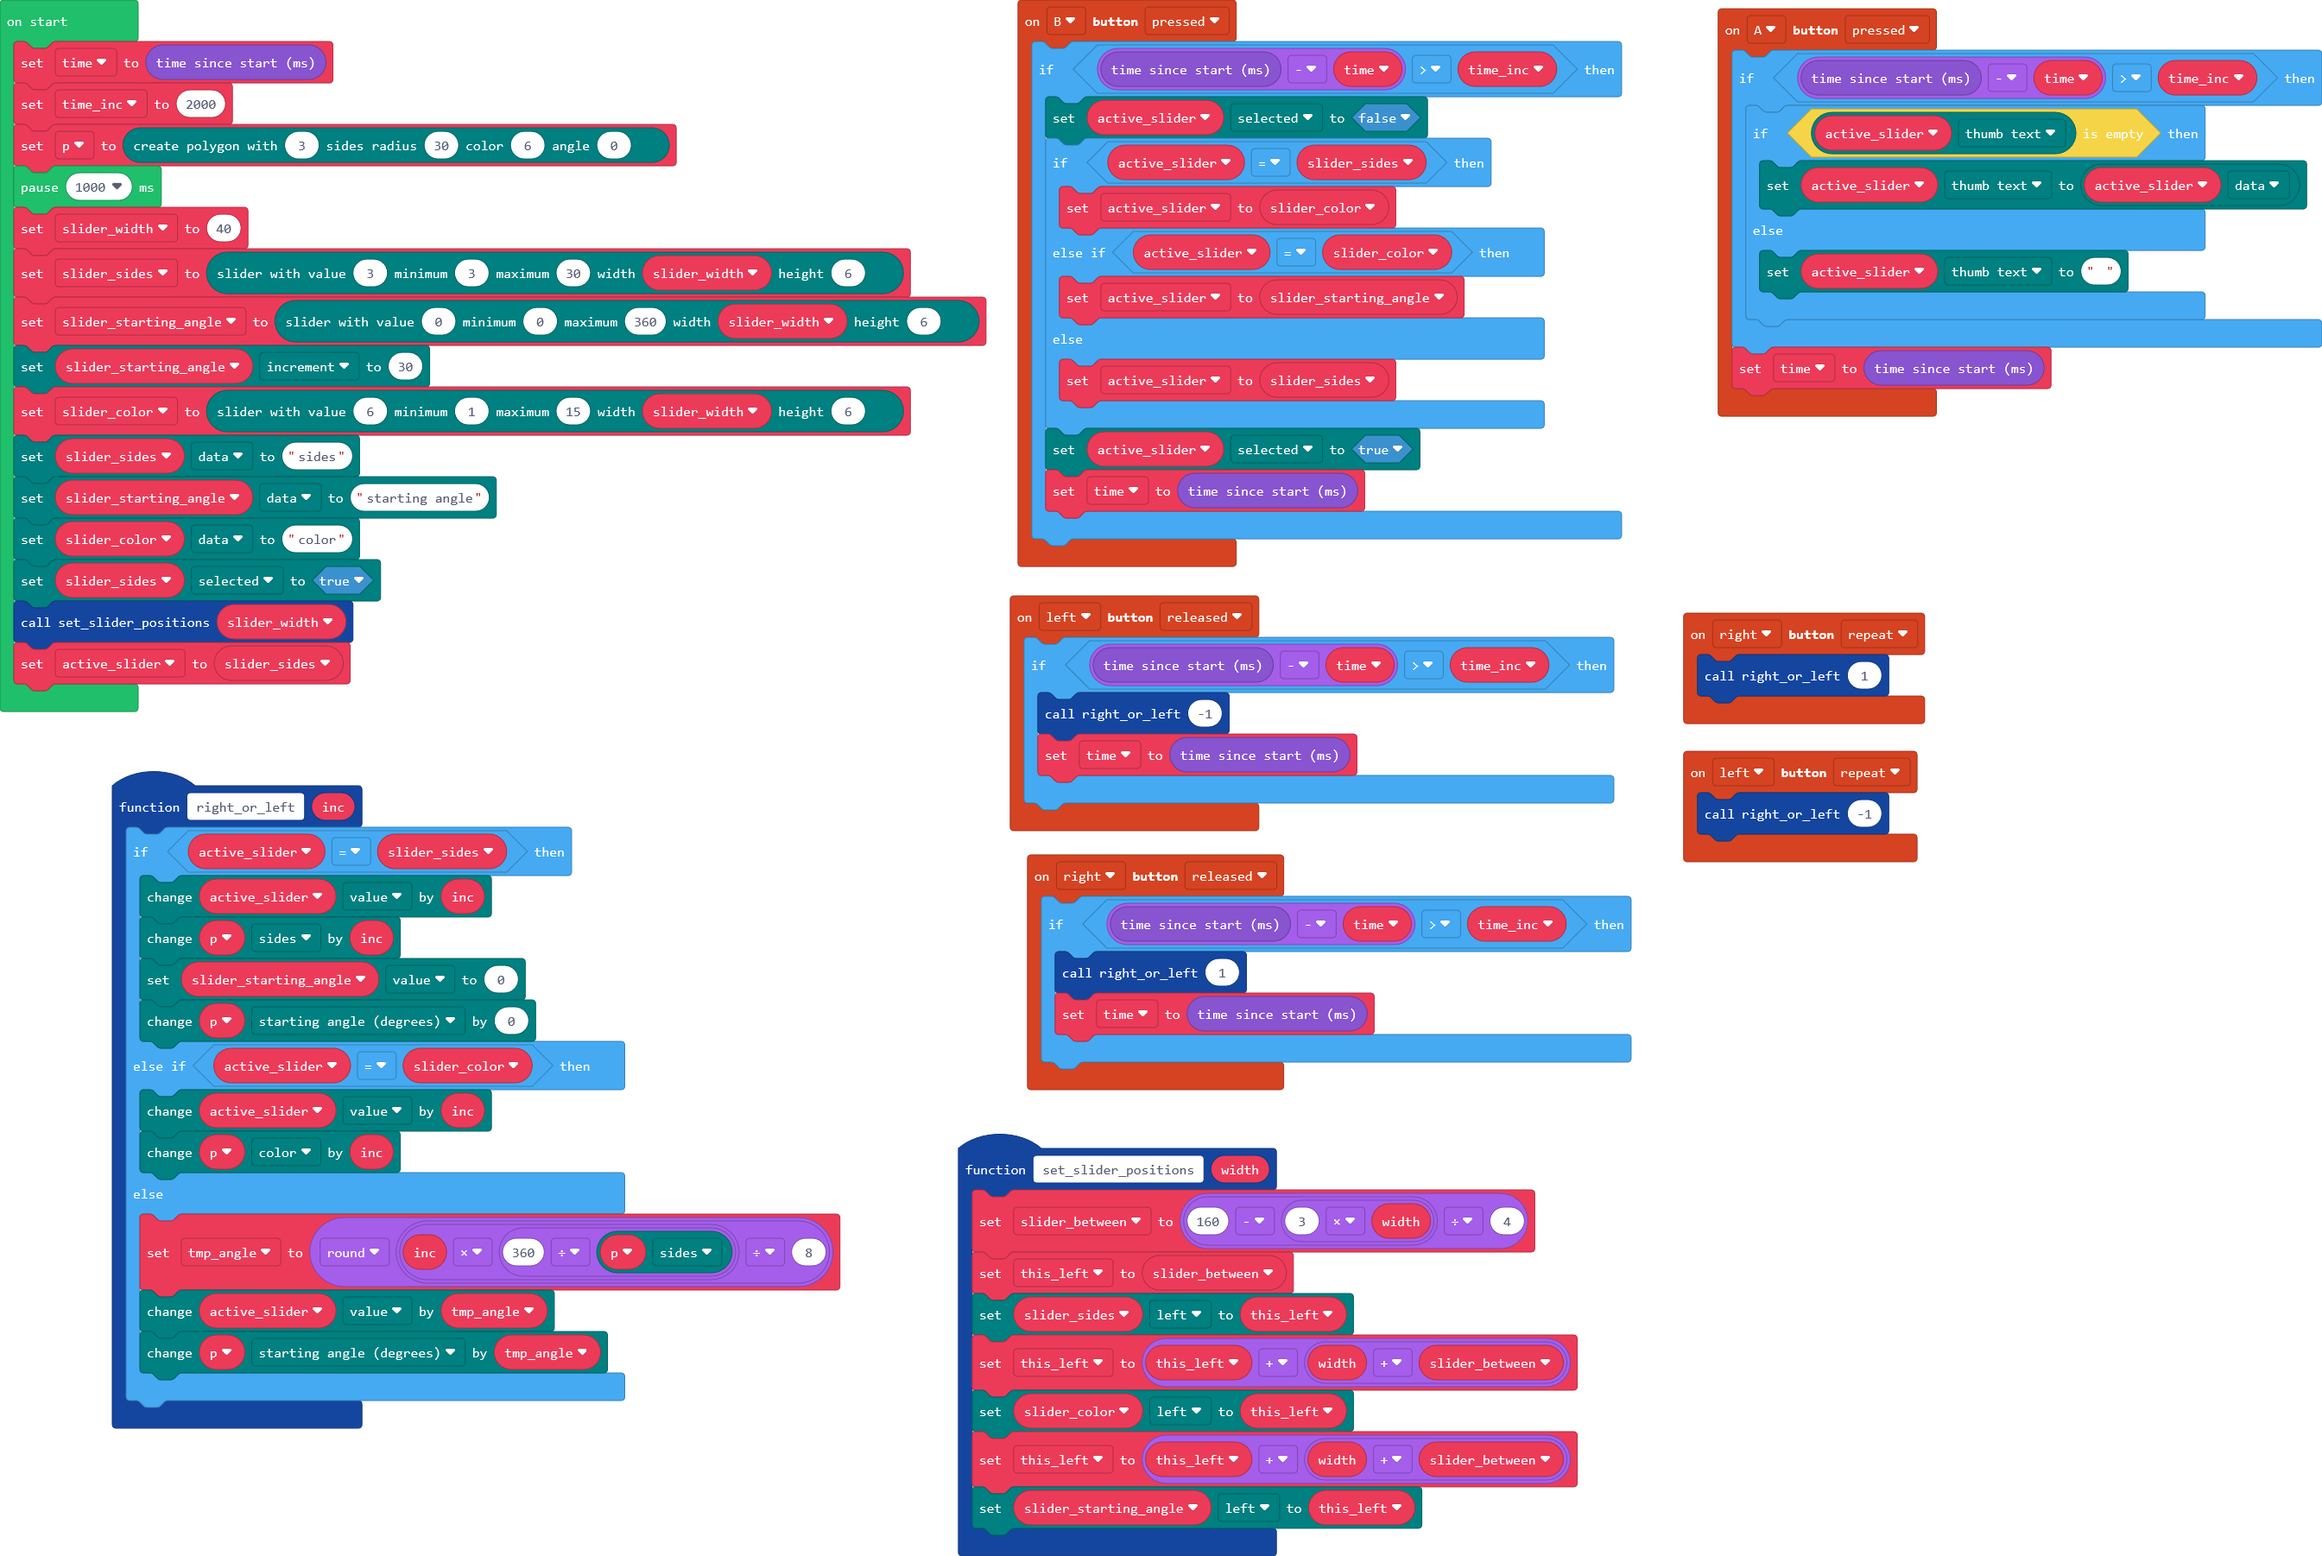
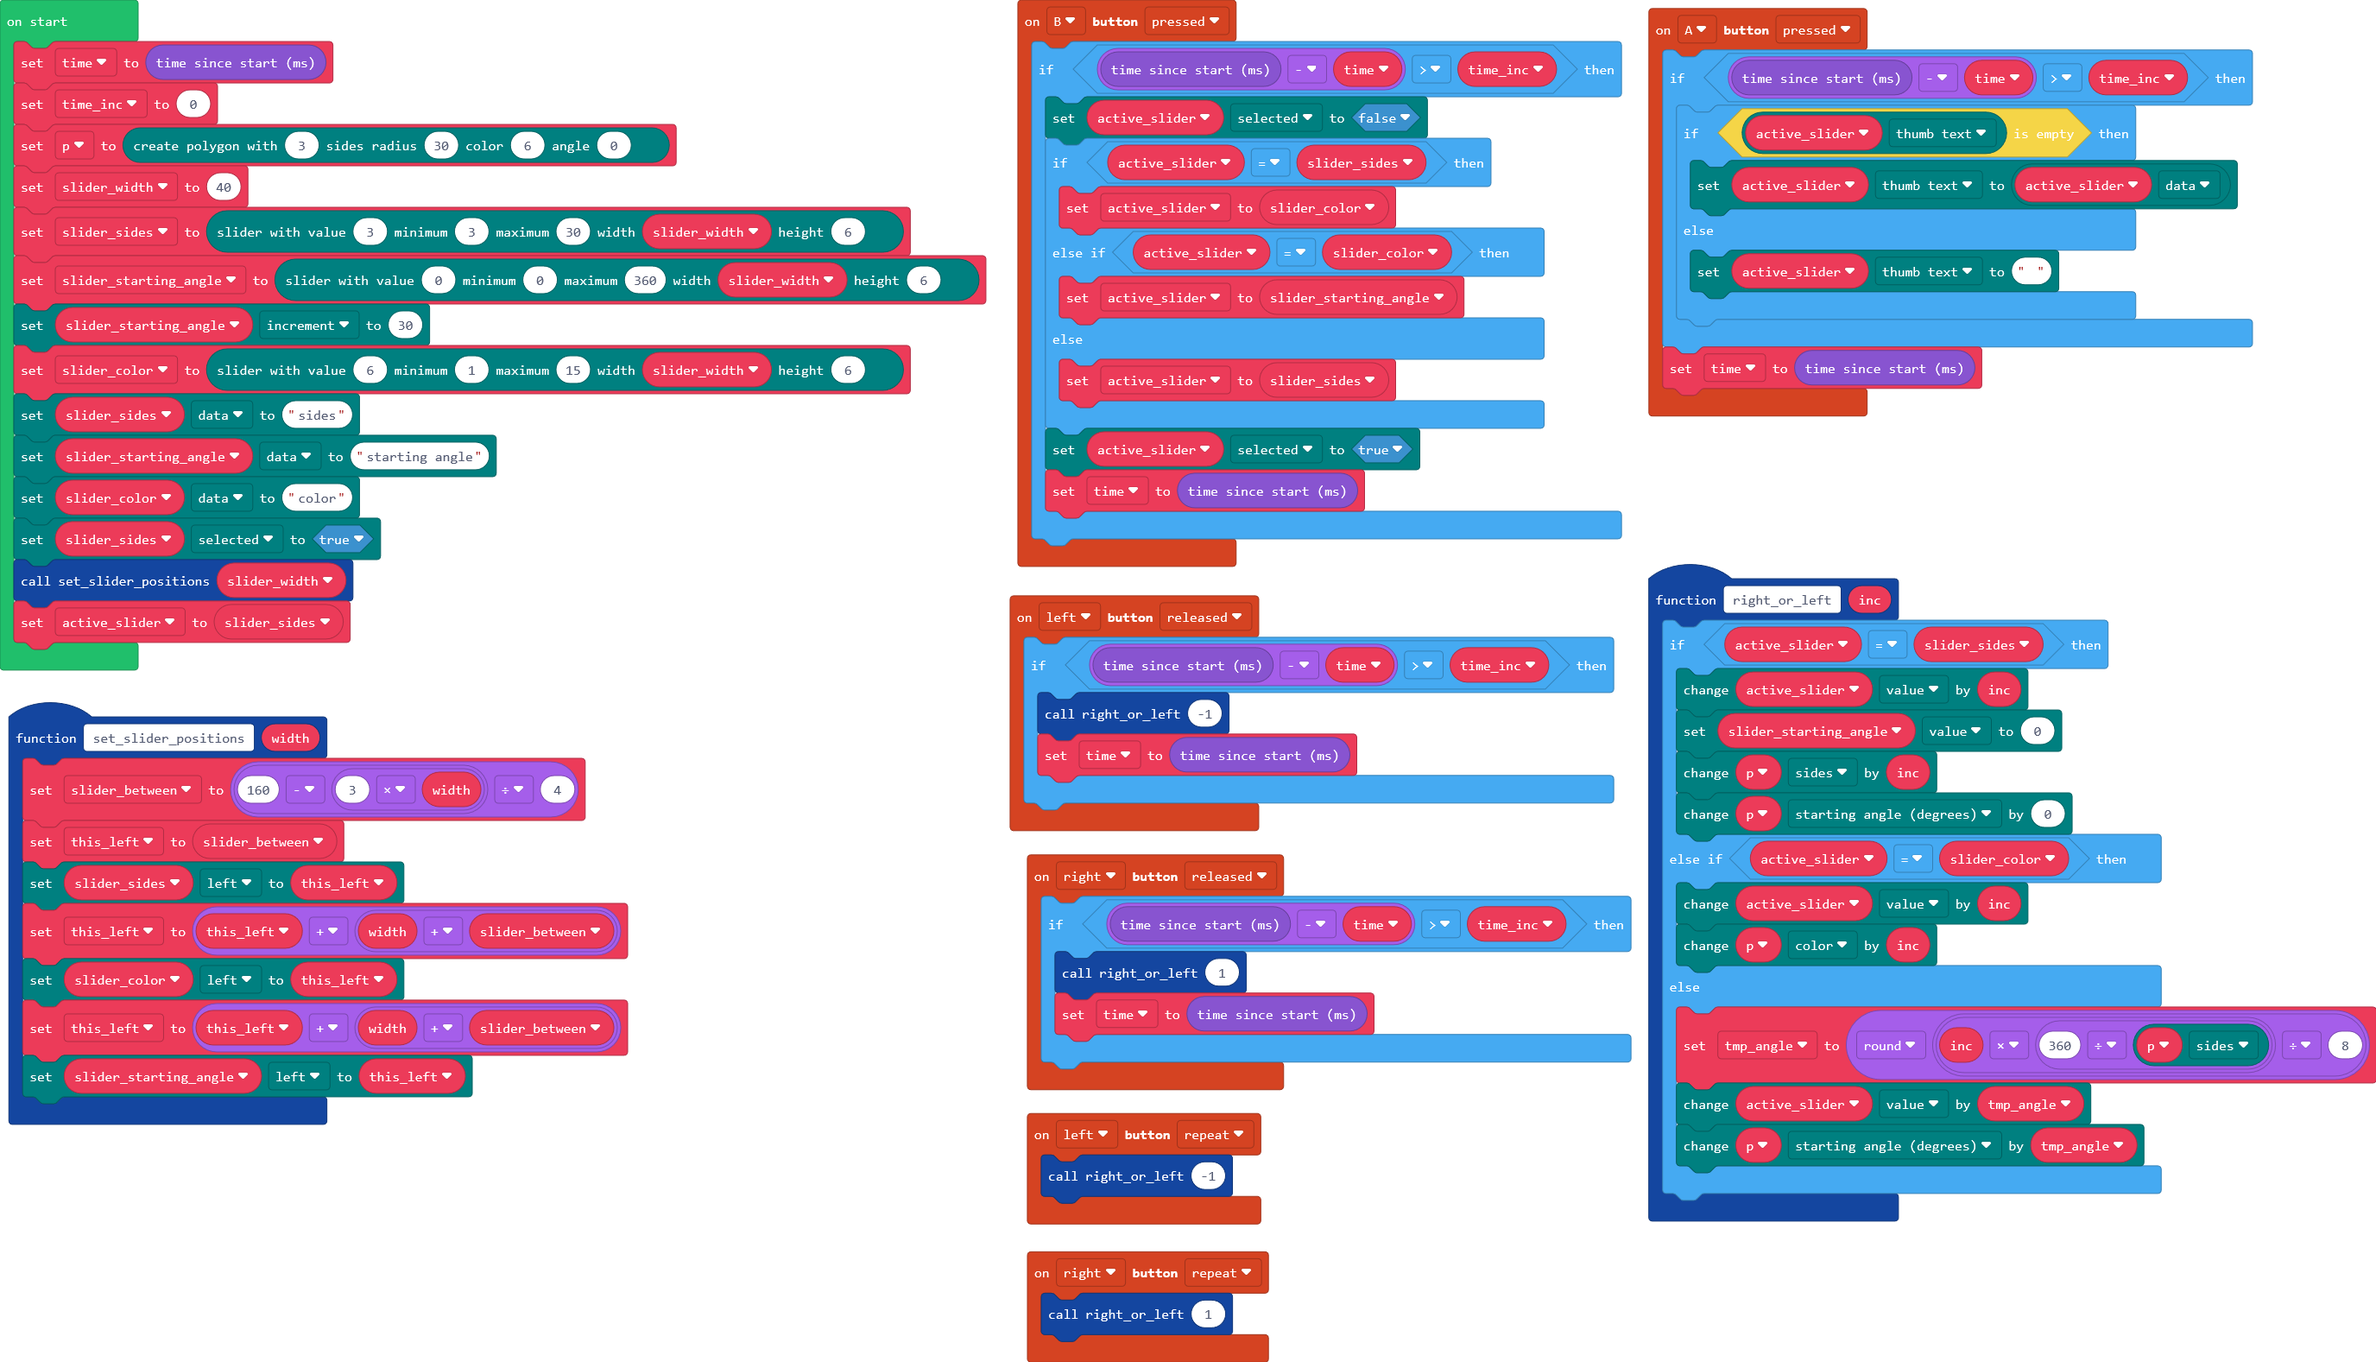
Update main.blocks, main.ts

diff --git a/main.ts b/main.ts
@@ -43,8 +43,8 @@ controller.A.onEvent(ControllerButtonEvent.Pressed, function () {
 function right_or_left (inc: number) {
     if (active_slider == slider_sides) {
         active_slider.value += inc
-        p.sides += inc
         slider_starting_angle.value = 0
+        p.sides += inc
         p.angle += 0
     } else if (active_slider == slider_color) {
         active_slider.value += inc
@@ -75,9 +75,8 @@ let p: Polygon = null
 let time_inc = 0
 let time = 0
 time = game.runtime()
-time_inc = 2000
+time_inc = 0
 p = polygon.createPolygon(3, 30, 6, 0)
-pause(1000)
 let slider_width = 40
 slider_sides = slider.create(3, 3, 30, slider_width, 6)
 slider_starting_angle = slider.create(0, 0, 360, slider_width, 6)
